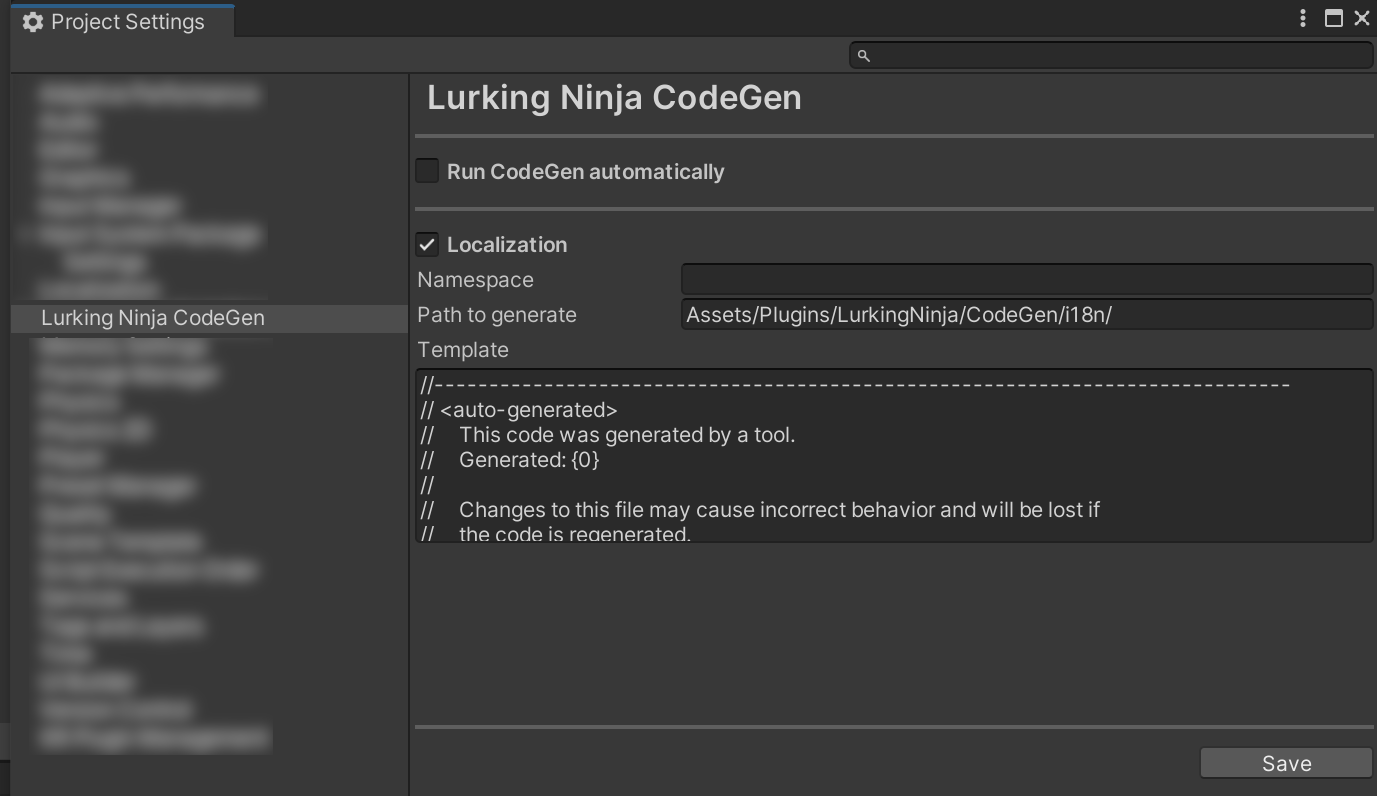
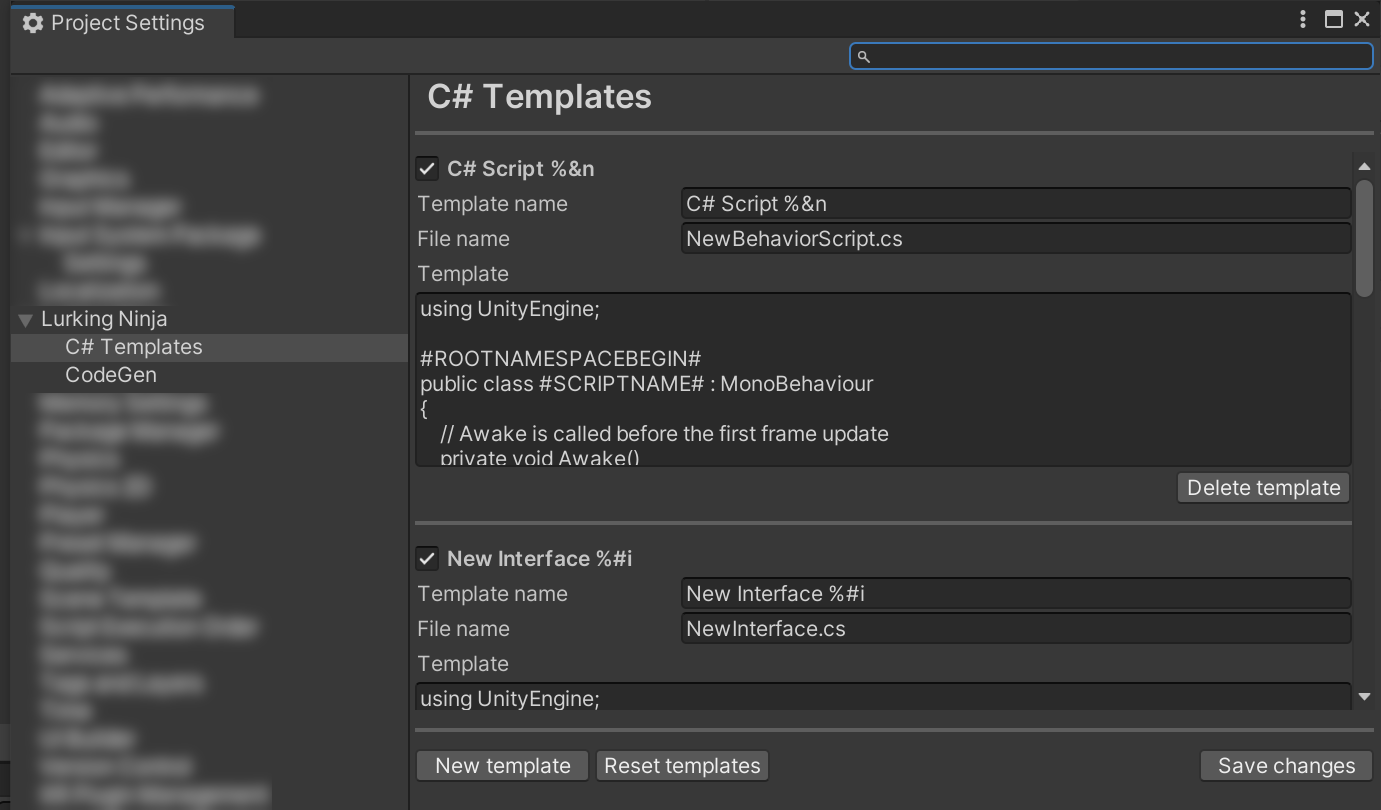
Moving settings under a common path

diff --git a/Packages/com.lurking-ninja.codegen/Editor/Settings/CodeGenSettinsProvider.cs b/Packages/com.lurking-ninja.codegen/Editor/Settings/CodeGenSettinsProvider.cs
@@ -13,7 +13,7 @@ namespace LurkingNinja.CodeGen.Editor
 
     public partial class CodeGenSettingsProvider : SettingsProvider
     {
-        private const string _SETTINGS_PATH = "Project/Lurking Ninja CodeGen";
+        private const string _SETTINGS_PATH = "Project/Lurking Ninja/CodeGen";
 
         private SerializedObject _serializedSettings;
         private SerializedProperty _autoRun;
